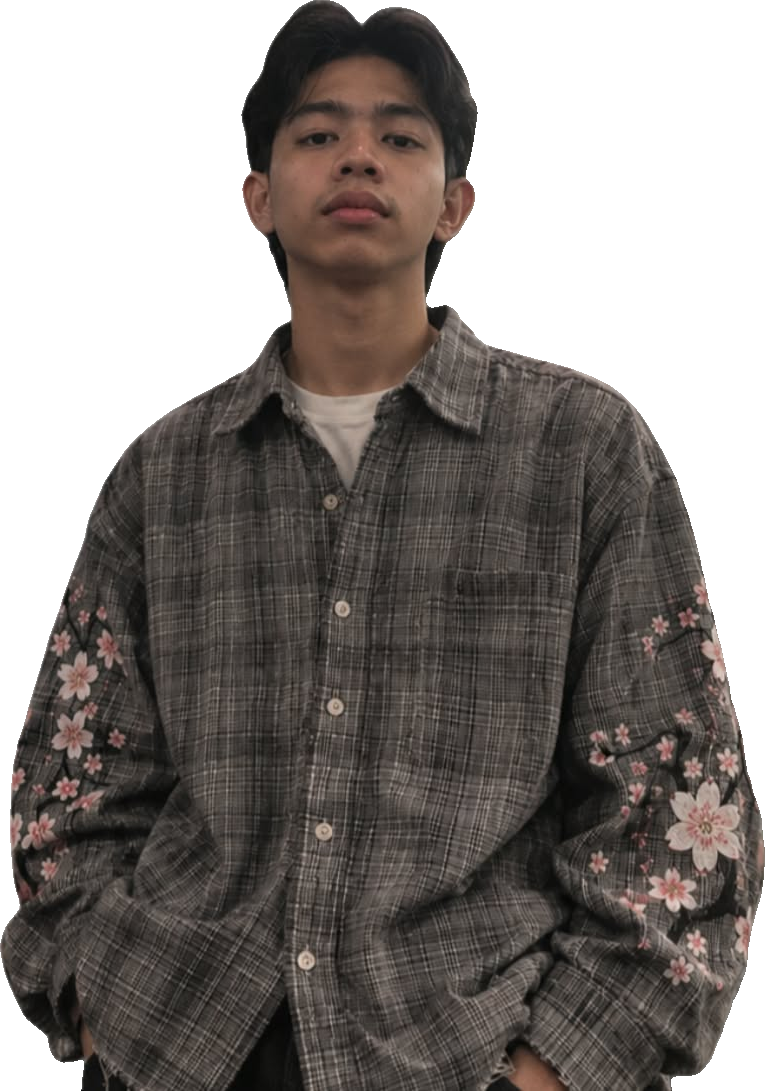
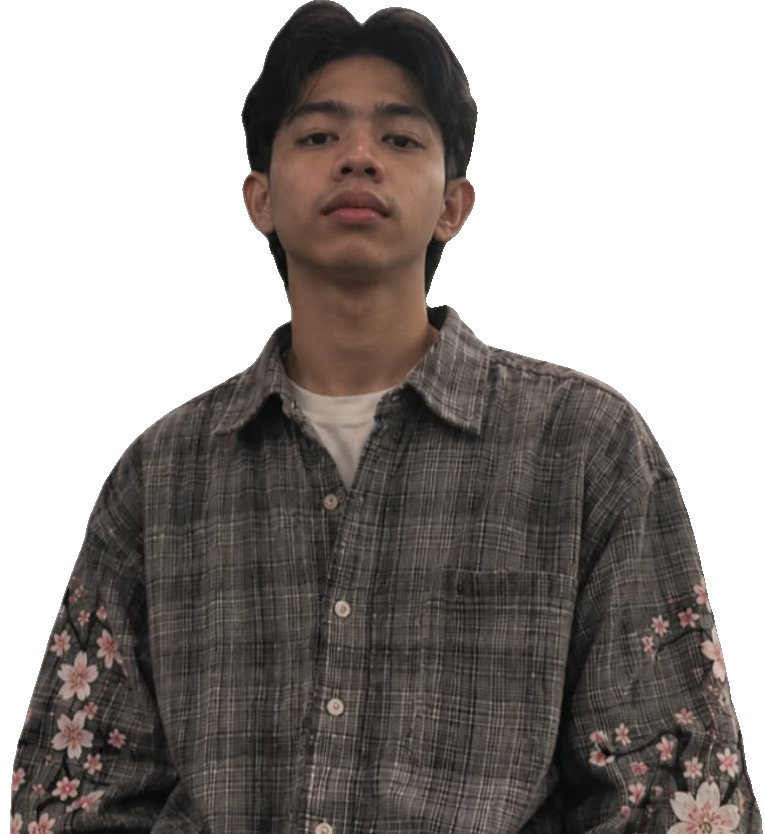
Aura Spider-Man

diff --git a/script.js b/script.js
@@ -16,28 +16,185 @@ navLinks.querySelectorAll('a').forEach((a) => a.addEventListener('click', () => 
 // Foto potret: tampilkan placeholder kalau img/portrait.png belum ada
 const portrait = document.getElementById('portrait');
 const portraitImg = document.getElementById('portraitImg');
-const mainSrc = portraitImg.getAttribute('src');
-const altSrc = portraitImg.dataset.alt;
-let hasAlt = false;
-portraitImg.addEventListener('error', () => {
-  if (portraitImg.getAttribute('src') === mainSrc) portrait.classList.add('no-photo');
-  else portraitImg.src = mainSrc;
-});
+portraitImg.addEventListener('error', () => portrait.classList.add('no-photo'));
 if (portraitImg.complete && portraitImg.naturalWidth === 0) portrait.classList.add('no-photo');
-if (altSrc) {
-  const probe = new Image();
-  probe.onload = () => { hasAlt = true; };
-  probe.src = altSrc;
+
+// Efek aura: versi aura "terbakar" hilang saat halaman dibuka, tombol "Show aura" membakar
+// bolak-balik antara dua versi, dan jejak kursor/jari sesaat memperlihatkan versi yang lain.
+const auraBtn = document.getElementById('auraToggle');
+const fxCanvas = document.getElementById('portraitFx');
+let portraitFx = null;
+
+function mountPortraitFx(photo, aura) {
+  const ctx = fxCanvas.getContext('2d');
+  const layer = document.createElement('canvas');
+  const lctx = layer.getContext('2d');
+
+  // mask, glow dan jejak dihitung di resolusi kecil lalu di-scale halus
+  const MW = 260;
+  const MH = Math.round((MW * photo.naturalHeight) / photo.naturalWidth);
+  const makeCanvas = () => { const c = document.createElement('canvas'); c.width = MW; c.height = MH; return c; };
+  const trail = makeCanvas(), mask = makeCanvas(), glow = makeCanvas();
+  const tctx = trail.getContext('2d', { willReadFrequently: true });
+  const mctx = mask.getContext('2d'), gctx = glow.getContext('2d');
+  const mdata = mctx.createImageData(MW, MH), gdata = gctx.createImageData(MW, MH);
+
+  // noise berlapis untuk tepi bakar yang tidak rata
+  const rnd = (x, y) => { const v = Math.sin(x * 91.7 + y * 47.3 + 3.1) * 15731.743; return v - Math.floor(v); };
+  const vnoise = (x, y) => {
+    const xi = Math.floor(x), yi = Math.floor(y), xf = x - xi, yf = y - yi;
+    const u = xf * xf * (3 - 2 * xf), v = yf * yf * (3 - 2 * yf);
+    const a = rnd(xi, yi), b = rnd(xi + 1, yi), c = rnd(xi, yi + 1), d = rnd(xi + 1, yi + 1);
+    return a + (b - a) * u + (c - a) * v + (a - b - c + d) * u * v;
+  };
+  const field = new Float32Array(MW * MH);
+  for (let j = 0; j < MH; j++) {
+    for (let i = 0; i < MW; i++) {
+      const x = (i / MW) * 4.2 + 1.7, y = (j / MW) * 4.2 + 1.7;
+      field[j * MW + i] = vnoise(x, y) * 0.53 + vnoise(x * 2, y * 2) * 0.27 + vnoise(x * 4, y * 4) * 0.13 + vnoise(x * 8, y * 8) * 0.07;
+    }
+  }
+  const ss = (e0, e1, x) => { const t = Math.min(1, Math.max(0, (x - e0) / (e1 - e0))); return t * t * (3 - 2 * t); };
+
+  // progress 0 = aura, 1 = foto asli
+  let progress = reduceMotion ? 1 : 0, target = 1;
+  const duration = 2.2, edge = 0.07;
+  let cw = 0, ch = 0;
+
+  const resize = () => {
+    const dpr = Math.min(devicePixelRatio || 1, 2);
+    cw = Math.round(fxCanvas.clientWidth * dpr);
+    ch = Math.round(fxCanvas.clientHeight * dpr);
+    if (!cw || !ch) return;
+    fxCanvas.width = layer.width = cw;
+    fxCanvas.height = layer.height = ch;
+    wake();
+  };
+
+  // jejak kursor
+  let pointer = null, lastPointer = null, activeFrames = 0, rect = fxCanvas.getBoundingClientRect();
+  const onPointer = (e) => {
+    rect = fxCanvas.getBoundingClientRect();
+    const x = (e.clientX - rect.left) / rect.width, y = (e.clientY - rect.top) / rect.height;
+    if (x < -0.1 || x > 1.1 || y < -0.1 || y > 1.1) { lastPointer = null; return; }
+    pointer = { x, y };
+    wake();
+  };
+  const paintTrail = () => {
+    tctx.globalCompositeOperation = 'destination-out';
+    tctx.fillStyle = 'rgba(0,0,0,0.045)';
+    tctx.fillRect(0, 0, MW, MH);
+    if (!pointer) return;
+    tctx.globalCompositeOperation = 'lighter';
+    const brush = (90 / rect.width) * MW;
+    const from = lastPointer || pointer;
+    const steps = Math.max(1, Math.ceil(Math.hypot((pointer.x - from.x) * MW, (pointer.y - from.y) * MH) / (brush * 0.35)));
+    for (let k = 1; k <= steps; k++) {
+      const cx = (from.x + ((pointer.x - from.x) * k) / steps) * MW;
+      const cy = (from.y + ((pointer.y - from.y) * k) / steps) * MH;
+      const g = tctx.createRadialGradient(cx, cy, 0, cx, cy, brush);
+      g.addColorStop(0, 'rgba(255,255,255,0.35)');
+      g.addColorStop(1, 'rgba(255,255,255,0)');
+      tctx.fillStyle = g;
+      tctx.fillRect(cx - brush, cy - brush, brush * 2, brush * 2);
+    }
+    lastPointer = pointer;
+    pointer = null;
+  };
+
+  const render = () => {
+    const td = tctx.getImageData(0, 0, MW, MH).data;
+    const md = mdata.data, gd = gdata.data;
+    const th = progress * (1 + edge * 2) - edge;
+    for (let i = 0; i < MW * MH; i++) {
+      const n = field[i];
+      const revealed = 1 - ss(th - edge * 0.35, th + edge * 0.35, n);
+      const burn = (1 - ss(0, edge * 0.45, Math.abs(n - th))) * 0.9;
+      const tm = ss(0.28, 0.55, td[i * 4 + 3] / 255 + (n - 0.5) * 0.35);
+      const tg = Math.pow(4 * tm * (1 - tm), 6) * 0.75;
+      const showPhoto = revealed + (1 - 2 * revealed) * tm;
+      const o = i * 4;
+      md[o] = md[o + 1] = md[o + 2] = 255;
+      md[o + 3] = (1 - showPhoto) * 255;
+      gd[o] = 255; gd[o + 1] = 212; gd[o + 2] = 59;
+      gd[o + 3] = Math.min(1, burn * (progress > 0 && progress < 1 ? 1 : 0) + tg) * 255;
+    }
+    mctx.putImageData(mdata, 0, 0);
+    gctx.putImageData(gdata, 0, 0);
+
+    ctx.clearRect(0, 0, cw, ch);
+    ctx.drawImage(photo, 0, 0, cw, ch);
+    // versi aura, hanya di area mask
+    lctx.globalCompositeOperation = 'source-over';
+    lctx.clearRect(0, 0, cw, ch);
+    lctx.drawImage(aura, 0, 0, cw, ch);
+    lctx.globalCompositeOperation = 'destination-in';
+    lctx.drawImage(mask, 0, 0, cw, ch);
+    ctx.drawImage(layer, 0, 0);
+    // garis bakar kuning, hanya di dalam siluet
+    lctx.globalCompositeOperation = 'source-over';
+    lctx.clearRect(0, 0, cw, ch);
+    lctx.drawImage(glow, 0, 0, cw, ch);
+    lctx.globalCompositeOperation = 'destination-in';
+    lctx.drawImage(photo, 0, 0, cw, ch);
+    ctx.drawImage(layer, 0, 0);
+  };
+
+  let raf = 0, running = false, last = performance.now();
+  const frame = (now) => {
+    const dt = Math.min((now - last) / 1000, 0.05);
+    last = now;
+    const burning = progress !== target;
+    if (burning) {
+      const step = dt / duration;
+      progress = target > progress ? Math.min(target, progress + step) : Math.max(target, progress - step);
+    }
+    const moved = pointer !== null;
+    paintTrail();
+    render();
+    activeFrames = moved ? 150 : activeFrames - 1;
+    if (burning || activeFrames > 0) raf = requestAnimationFrame(frame);
+    else { running = false; lastPointer = null; }
+  };
+  function wake() {
+    if (running || document.hidden || !cw) return;
+    running = true;
+    last = performance.now();
+    raf = requestAnimationFrame(frame);
+  }
+
+  new ResizeObserver(resize).observe(fxCanvas);
+  if (!reduceMotion) addEventListener('pointermove', onPointer, { passive: true });
+  document.addEventListener('visibilitychange', wake);
+  portrait.classList.add('fx-ready');
+  resize();
+
+  return {
+    show(which) {
+      target = which === 'aura' ? 0 : 1;
+      if (reduceMotion) progress = target;
+      wake();
+    },
+  };
 }
 
-// Tombol "Show aura": nyalakan aura warna dan ganti foto kalau ada foto kedua
-const auraBtn = document.getElementById('auraToggle');
+const loadImage = (src) => new Promise((resolve, reject) => {
+  const im = new Image();
+  im.onload = () => resolve(im);
+  im.onerror = reject;
+  im.src = src;
+});
+if (portraitImg.dataset.aura && fxCanvas.getContext) {
+  Promise.all([loadImage(portraitImg.getAttribute('src')), loadImage(portraitImg.dataset.aura)])
+    .then(([photo, aura]) => { portraitFx = mountPortraitFx(photo, aura); })
+    .catch(() => { auraBtn.hidden = true; });
+}
+
 auraBtn.addEventListener('click', () => {
   const on = auraBtn.getAttribute('aria-pressed') !== 'true';
   auraBtn.setAttribute('aria-pressed', String(on));
-  auraBtn.querySelector('strong').textContent = on ? 'Hide aura' : 'Show aura';
-  portrait.classList.toggle('is-aura', on);
-  if (hasAlt) portraitImg.src = on ? altSrc : mainSrc;
+  auraBtn.querySelector('strong').textContent = on ? 'Show photo' : 'Show aura';
+  if (portraitFx) portraitFx.show(on ? 'aura' : 'photo');
 });
 
 // Garis kontur topografi di latar (marching squares di atas noise)

diff --git a/style.css b/style.css
@@ -14,6 +14,7 @@
   --body: "Onest", system-ui, -apple-system, sans-serif;
   --mono: "JetBrains Mono", ui-monospace, monospace;
   --ease: cubic-bezier(0.16, 1, 0.3, 1);
+  --portrait-shadow: drop-shadow(30px 14px 12px rgba(11, 16, 38, 0.42)) drop-shadow(6px 4px 6px rgba(11, 16, 38, 0.18));
   --cut: polygon(10px 0, 100% 0, 100% calc(100% - 10px), calc(100% - 10px) 100%, 0 100%, 0 10px);
   --gutter: max(16px, env(safe-area-inset-left, 0px));
   --gutter-r: max(16px, env(safe-area-inset-right, 0px));
@@ -137,7 +138,7 @@ button { font: inherit; }
 .hero__portrait { position: relative; margin: 0; align-self: end; display: flex; justify-content: center; height: 100%; min-height: 520px; }
 .hero__portrait img {
   position: relative; z-index: 1; align-self: end; max-height: calc(min(100svh, 900px) - 110px); width: auto; object-fit: contain;
-  filter: drop-shadow(30px 14px 12px rgba(11, 16, 38, 0.42)) drop-shadow(6px 4px 6px rgba(11, 16, 38, 0.18)); transition: opacity .5s;
+  filter: var(--portrait-shadow); transition: opacity .5s;
 }
 .hero__portrait.no-photo img { display: none; }
 .portrait-placeholder { display: none; }
@@ -148,13 +149,12 @@ button { font: inherit; }
 .portrait-placeholder svg { width: 100%; fill: #c9d4d7; filter: drop-shadow(18px 10px 22px rgba(11, 16, 38, 0.18)); }
 .portrait-placeholder span { position: absolute; bottom: 28%; text-align: center; font-size: 12px; letter-spacing: 0.08em; text-transform: uppercase; color: var(--ink-soft); }
 .portrait-placeholder code { font-family: var(--mono); text-transform: none; letter-spacing: 0; }
-.aura {
-  position: absolute; z-index: 0; left: 50%; top: 52%; width: 120%; aspect-ratio: 1; translate: -50% -50%;
-  background: radial-gradient(circle at 40% 40%, rgba(10,122,140,.55), transparent 55%), radial-gradient(circle at 65% 60%, rgba(255,212,59,.6), transparent 55%), radial-gradient(circle at 50% 50%, rgba(140,110,220,.35), transparent 60%);
-  filter: blur(40px); opacity: 0; scale: .8; transition: opacity .8s, scale .8s;
-}
-.is-aura .aura { opacity: 1; scale: 1; animation: drift 9s ease-in-out infinite alternate; }
-@keyframes drift { to { rotate: 25deg; scale: 1.06; } }
+.portrait-stack { position: relative; z-index: 1; align-self: end; line-height: 0; }
+.portrait-stack img { display: block; }
+.portrait-fx { position: absolute; inset: 0; width: 100%; height: 100%; opacity: 0; pointer-events: none; }
+.fx-ready .portrait-fx { opacity: 1; }
+.fx-ready .portrait-stack img { visibility: hidden; }
+.fx-ready .portrait-fx { filter: var(--portrait-shadow); }
 
 .hero__panel { justify-self: end; width: min(100%, 230px); display: grid; gap: 14px; }
 .panel__title { margin-top: 10px; font-size: 14px; font-weight: 500; text-transform: uppercase; letter-spacing: 0.03em; }
@@ -322,14 +322,15 @@ button { font: inherit; }
   .hero { grid-template-columns: 1fr; min-height: 0; padding-top: 104px; padding-bottom: 32px; gap: 28px; }
   /* On phones the portrait is cropped at the waist and fades into the page */
   .hero__portrait {
-    order: 2; min-height: 0; height: calc(min(80vw, 380px) * 1.24); overflow: hidden; align-items: start;
+    order: 2; min-height: 0; height: calc(min(80vw, 380px) * 1.04); overflow: hidden; align-items: start;
     -webkit-mask-image: linear-gradient(to bottom, #000 86%, rgba(0, 0, 0, 0.35) 96%, transparent 100%);
     mask-image: linear-gradient(to bottom, #000 86%, rgba(0, 0, 0, 0.35) 96%, transparent 100%);
   }
   .hero__portrait img {
-    align-self: start; width: min(80vw, 380px); height: auto; max-height: none;
-    filter: drop-shadow(10px 6px 8px rgba(11, 16, 38, 0.26));
+    width: min(80vw, 380px); height: auto; max-height: none;
   }
+  .hero__portrait { --portrait-shadow: drop-shadow(10px 6px 8px rgba(11, 16, 38, 0.26)); }
+  .portrait-stack { align-self: start; }
   .hero__panel { order: 3; justify-self: stretch; width: 100%; grid-template-columns: repeat(auto-fit, minmax(200px, 1fr)); }
   .aura-toggle, .hero__cta { position: static; order: 4; }
   .hero__cta { justify-self: start; }

diff --git a/index.html b/index.html
@@ -58,10 +58,12 @@
       </div>
 
       <figure class="hero__portrait" id="portrait">
-        <div class="aura" aria-hidden="true"></div>
-        <!-- Taruh foto potret tanpa background (PNG transparan) di img/portrait.png.
-             Tombol "Show aura" hanya menyalakan aura warna di belakang foto ini. -->
-        <img src="img/portrait.png" alt="Portrait of Adithia Christian" id="portraitImg" />
+        <!-- Foto potret tanpa background di img/portrait.png. Versi "aura" (ukuran dan posisi
+             harus sama persis) di img/portrait-aura.png. -->
+        <div class="portrait-stack">
+          <img src="img/portrait.png" data-aura="img/portrait-aura.png" alt="Portrait of Adithia Christian" id="portraitImg" />
+          <canvas class="portrait-fx" id="portraitFx" aria-hidden="true"></canvas>
+        </div>
         <div class="portrait-placeholder" aria-hidden="true">
           <svg viewBox="0 0 200 260"><circle cx="100" cy="78" r="46"/><path d="M14 260c4-62 40-104 86-104s82 42 86 104z"/></svg>
           <span>Your photo here<br /><code>img/portrait.png</code></span>
@@ -96,7 +98,7 @@
         <span class="aura-toggle__icon" aria-hidden="true">
           <svg viewBox="0 0 24 24"><path d="M7 7h12l-3-3M17 17H5l3 3"/></svg>
         </span>
-        <span class="aura-toggle__text"><strong>Show aura</strong><small>Background glow</small></span>
+        <span class="aura-toggle__text"><strong>Show aura</strong><small>Switch portrait</small></span>
       </button>
 
       <a href="#projects" class="cut-btn hero__cta">View projects <span aria-hidden="true">↗</span></a>
